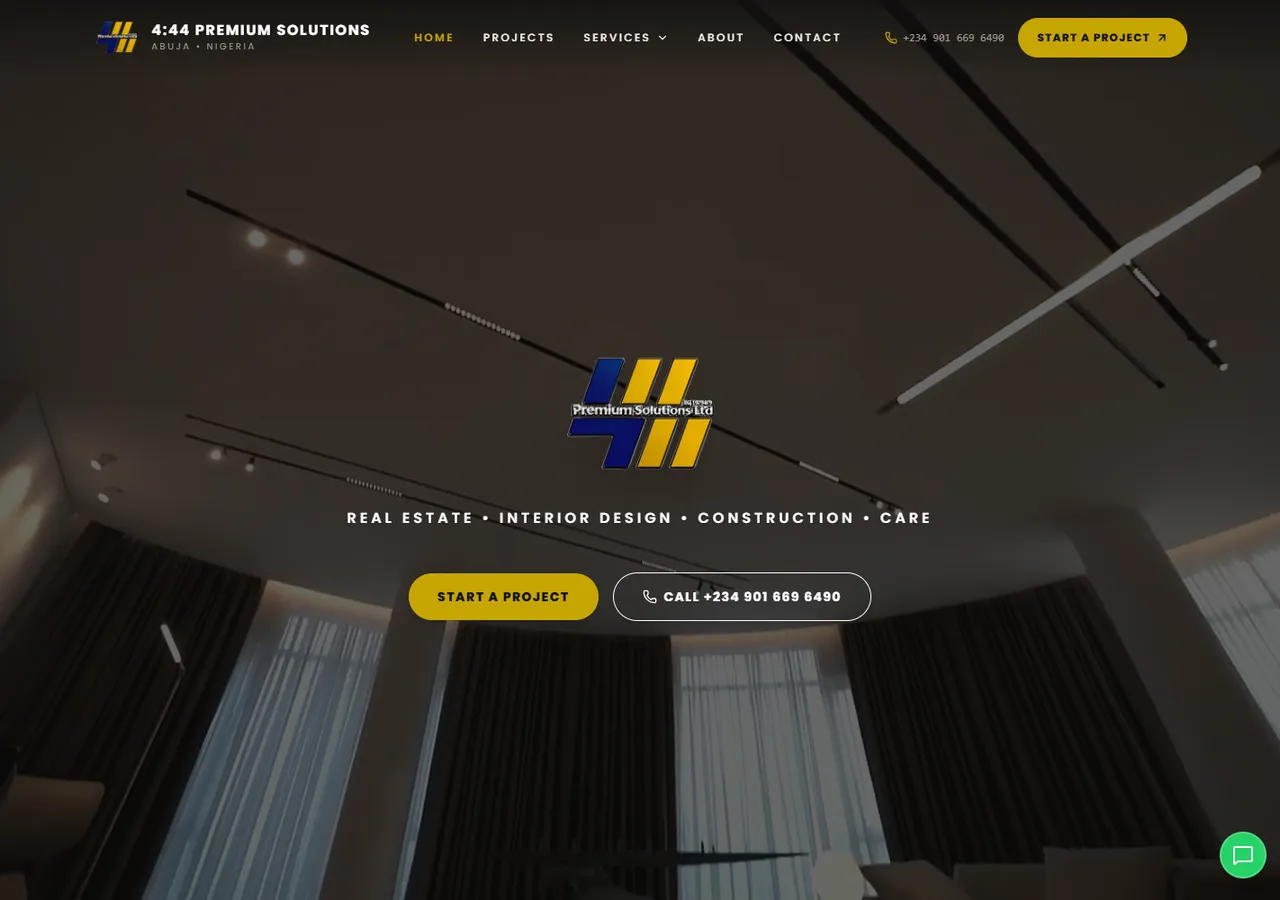
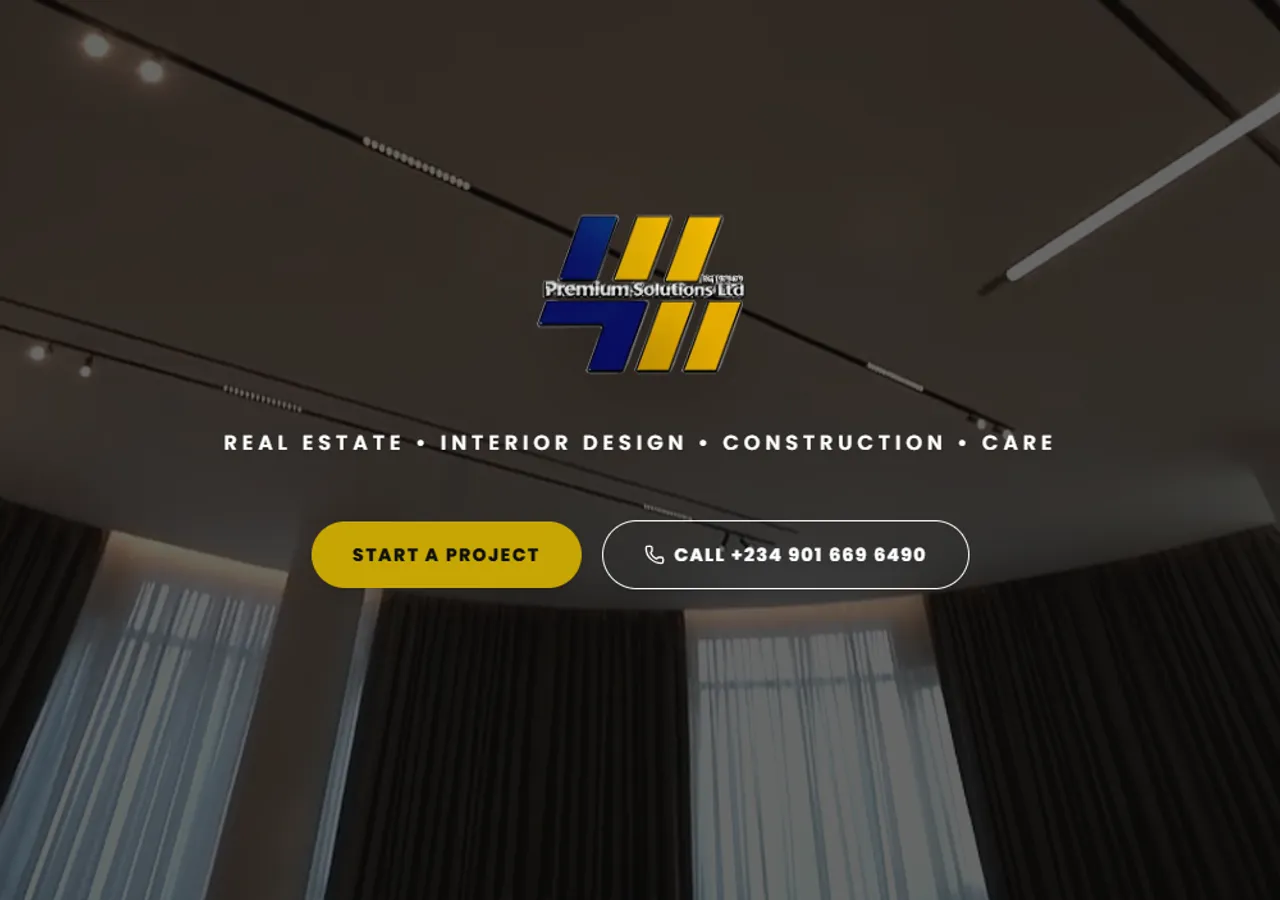
Design audit fixes: contact routes, type scale, wording, targets
- Replace the unconnected contact form with direct LinkedIn/X/CV links
  until site.email is set (the form returns automatically once it is)
- Add X to the contact links shown alongside the form
- One job title ("Creative Developer") across hero, meta and JSON-LD
- Move the role out of the h1 so its accessible name is just the name
- Tighten text sizes to 12/14/16/18 px; buttons and links 13 -> 14 px
- Sentence case for buttons, headings, skills and categories
- Desktop nav links 34 -> 44 px tall
- About copy no longer repeats the hero intro
- 4:44 Premium card crops in on the logo, tagline and buttons

diff --git a/src/styles.css b/src/styles.css
@@ -164,7 +164,7 @@ main:focus { outline: none; }
   min-height: 44px; padding: 12px 16px;
   border: 1px solid var(--btn-bg); border-radius: var(--r-md);
   background: var(--btn-bg); color: var(--btn-ink);
-  font: 700 13px/1 var(--font-display);
+  font: 700 14px/1 var(--font-display);
   white-space: nowrap;
   transition: transform .25s var(--ease), box-shadow .25s var(--ease), opacity .2s;
 }
@@ -175,7 +175,7 @@ main:focus { outline: none; }
 .textLink {
   display: inline-flex; align-items: center; gap: 7px;
   min-height: 44px;
-  font: 600 13px/1 var(--font-display);
+  font: 600 14px/1 var(--font-display);
   color: var(--ink-strong);
   transition: color .2s;
 }
@@ -202,7 +202,7 @@ main:focus { outline: none; }
 .brand { margin-right: auto; display: inline-flex; align-items: center; min-height: 44px; font: 800 19px/1 var(--font-display); letter-spacing: -.06em; }
 .brand span { color: var(--accent); }
 .nav nav { display: flex; gap: 4px; }
-.nav nav a { padding: 10px 12px; border-radius: var(--r-sm); font: 500 14px/1 var(--font-display); transition: background .2s, box-shadow .2s; }
+.nav nav a { display: inline-flex; align-items: center; min-height: 44px; padding: 0 12px; border-radius: var(--r-sm); font: 500 14px/1 var(--font-display); transition: background .2s, box-shadow .2s; }
 .nav nav a[aria-current] { box-shadow: inset 0 -2px 0 var(--accent); border-radius: var(--r-sm) var(--r-sm) 0 0; }
 .navActions { display: flex; align-items: center; gap: 12px; }
 .navActions .textLink { padding: 0 4px; }
@@ -241,7 +241,7 @@ main:focus { outline: none; }
   display: flex; align-items: center; justify-content: space-between;
   min-height: 52px; margin-top: 4px; padding: 0;
   border: 0; border-top: 1px solid var(--line); background: transparent;
-  font: 600 15px var(--font-display); text-align: left; color: var(--ink-strong);
+  font: 600 16px var(--font-display); text-align: left; color: var(--ink-strong);
 }
 .mobileRow:first-of-type { margin-top: 20px; }
 html.menuOpen, html.menuOpen body { overflow: hidden; }
@@ -274,14 +274,14 @@ html.menuOpen, html.menuOpen body { overflow: hidden; }
 .hero h1 {
   font-size: var(--h1); font-weight: 700;
   line-height: 1.02; letter-spacing: var(--track-display);
-  margin-bottom: 20px;
 }
-.hero h1 span {
-  display: block; margin-top: 12px;
-  font: 400 13px/1.4 var(--font-mono); letter-spacing: .1em; text-transform: uppercase;
+/* The role sits outside the h1 so the heading's accessible name is just the person's name. */
+.heroRole {
+  margin: 12px 0 20px;
+  font: 400 14px/1.4 var(--font-mono); letter-spacing: .1em; text-transform: uppercase;
   color: var(--accent);
 }
-.heroCopy p { max-width: 470px; font-size: clamp(1rem, 1.35vw, 1.15rem); line-height: 1.7; color: var(--muted); }
+.heroIntro { max-width: 470px; font-size: clamp(1rem, 1.35vw, 1.125rem); line-height: 1.7; color: var(--muted); }
 .actions { display: flex; flex-wrap: wrap; align-items: center; gap: 12px 20px; margin-top: 28px; }
 .scrollHint {
   position: absolute; left: max(var(--gutter), (100% - var(--max)) / 2); bottom: 28px;
@@ -343,7 +343,7 @@ html.menuOpen, html.menuOpen body { overflow: hidden; }
 .about { background: var(--bg-alt); }
 .about .inner { max-width: var(--max); margin: 0 auto; }
 .split { display: grid; grid-template-columns: 1fr 1fr; gap: clamp(32px, 6vw, 70px); }
-.copy p { font-size: 17px; line-height: 1.72; color: var(--muted); }
+.copy p { font-size: 18px; line-height: 1.72; color: var(--muted); }
 .copy p + p { margin-top: 18px; }
 .pills { display: flex; flex-wrap: wrap; gap: 8px; margin-top: 32px; }
 .pills li { padding: 9px 13px; border: 1px solid var(--line-strong); border-radius: var(--r-pill); font-size: 12px; line-height: 1.3; color: var(--ink-strong); }
@@ -382,7 +382,7 @@ html.menuOpen, html.menuOpen body { overflow: hidden; }
 .contactForm input:focus, .contactForm textarea:focus { outline: none; border-color: var(--accent); box-shadow: 0 0 0 3px color-mix(in srgb, var(--accent) 22%, transparent); }
 .contactForm [aria-invalid="true"] { border-color: var(--error); background: var(--error-soft); }
 .contactForm [aria-invalid="true"]:focus { border-color: var(--error); box-shadow: 0 0 0 3px color-mix(in srgb, var(--error) 22%, transparent); }
-.fieldError { display: flex; align-items: flex-start; gap: 7px; font-size: 13px; line-height: 1.45; color: var(--error); }
+.fieldError { display: flex; align-items: flex-start; gap: 7px; font-size: 14px; line-height: 1.45; color: var(--error); }
 .fieldError::before {
   content: '!'; flex: none; display: grid; place-items: center;
   width: 16px; height: 16px; margin-top: 1px; border-radius: 50%;
@@ -390,9 +390,26 @@ html.menuOpen, html.menuOpen body { overflow: hidden; }
 }
 .contactForm .btn { justify-self: start; margin-top: 12px; }
 .honey { position: absolute; left: -9999px; width: 1px; height: 1px; opacity: 0; }
-.formNotice { min-height: 1.5em; font-size: 13px; line-height: 1.5; color: var(--subtle); }
+.formNotice { min-height: 1.5em; font-size: 14px; line-height: 1.5; color: var(--subtle); }
 .formNotice.ok { color: var(--success); }
 .formNotice.error { color: var(--error); }
+
+/* Shown in place of the form until a delivery address is set (see data.ts). */
+.contactDirect { display: grid; align-content: start; }
+.contactDirect .label { margin-bottom: 4px; }
+.directLink {
+  display: flex; align-items: center; justify-content: space-between; gap: 16px;
+  min-height: 64px; padding: 12px 0;
+  border-bottom: 1px solid var(--line-strong);
+  font: 700 18px/1.25 var(--font-display); letter-spacing: -.02em;
+  color: var(--ink);
+  transition: color .2s;
+}
+.directLink svg { flex: none; width: 20px; height: 20px; transition: transform .25s var(--ease); }
+@media (hover: hover) {
+  .directLink:hover { color: var(--accent); }
+  .directLink:hover svg { transform: translate(3px, -3px); }
+}
 
 /* Case study */
 .caseStudy {
@@ -401,7 +418,7 @@ html.menuOpen, html.menuOpen body { overflow: hidden; }
 }
 .backLink { margin-bottom: 28px; color: var(--muted); }
 .caseStudy h1 { font-size: var(--h1); font-weight: 700; line-height: 1.02; letter-spacing: var(--track-display); }
-.caseCat { margin-top: 12px; font: 400 13px var(--font-mono); letter-spacing: .06em; text-transform: uppercase; color: var(--accent); }
+.caseCat { margin-top: 12px; font: 400 12px var(--font-mono); letter-spacing: .06em; text-transform: uppercase; color: var(--accent); }
 .caseLede { max-width: 620px; margin-top: 20px; font-size: clamp(1.05rem, 1.6vw, 1.25rem); line-height: 1.65; color: var(--muted); }
 .caseShot { margin-top: 44px; padding: clamp(8px, 1.4vw, 14px); border: 1px solid var(--line); border-radius: var(--r-lg); background: var(--card-media); box-shadow: var(--shadow); }
 .caseShot img { width: 100%; height: auto; aspect-ratio: 1280 / 889; border-radius: var(--r-sm); }
@@ -425,8 +442,8 @@ html.menuOpen, html.menuOpen body { overflow: hidden; }
   display: grid; grid-template-columns: 1fr auto; gap: 24px;
 }
 .footerName { font: 700 19px var(--font-display); letter-spacing: -.05em; }
-.footerTagline { margin-top: 6px; font-size: 13px; font-weight: 500; color: var(--subtle); }
-.footer nav { display: flex; flex-wrap: wrap; align-items: center; gap: 0 10px; font-size: 13px; }
+.footerTagline { margin-top: 6px; font-size: 14px; font-weight: 500; color: var(--subtle); }
+.footer nav { display: flex; flex-wrap: wrap; align-items: center; gap: 0 10px; font-size: 14px; }
 .footer nav a { min-height: 44px; min-width: 44px; padding: 0 6px; display: inline-flex; align-items: center; justify-content: center; }
 @media (hover: hover) { .footer nav a:hover { color: var(--accent); } }
 .footer small {

diff --git a/src/App.tsx b/src/App.tsx
@@ -132,10 +132,11 @@ function Hero() {
       </div>
     </div>
     <div className="heroCopy">
-      <h1 id="hero-title">Usiju Peter<span>Creative Developer</span></h1>
-      <p>{site.intro}</p>
+      <h1 id="hero-title">Usiju Peter</h1>
+      <p className="heroRole">{site.role}</p>
+      <p className="heroIntro">{site.intro}</p>
       <div className="actions">
-        <Btn href="#contact">Start a Conversation</Btn>
+        <Btn href="#contact">Start a conversation</Btn>
         <a className="textLink underline" href={site.cv} target="_blank" rel="noopener"><FileText size={16} aria-hidden="true" /> View CV</a>
       </div>
     </div>
@@ -161,7 +162,7 @@ function ProjectCard({ p, delay }: { p: Project; delay: number }) {
 
 function Work() {
   return <section id="work" className="section work" aria-labelledby="work-title">
-    <Reveal><Label>01 / Selected work</Label><h2 id="work-title">Selected Projects</h2></Reveal>
+    <Reveal><Label>01 / Selected work</Label><h2 id="work-title">Selected projects</h2></Reveal>
     <ul className="workTiles" role="list">{projects.map((p, i) => <li key={p.slug}><ProjectCard p={p} delay={i * 0.08} /></li>)}</ul>
   </section>;
 }
@@ -207,7 +208,6 @@ function Contact() {
     setErrors(e);
     const first = (Object.keys(e) as Field[])[0];
     if (first) { (form.elements.namedItem(first) as HTMLElement | null)?.focus(); setStatus({ kind: 'idle', text: '' }); return; }
-    if (!site.email) { setStatus({ kind: 'error', text: 'The contact form isn’t connected yet. Please reach out on LinkedIn or X for now.' }); return; }
     setStatus({ kind: 'sending', text: 'Sending…' });
     try {
       const res = await fetch(`https://formsubmit.co/ajax/${site.email}`, {
@@ -237,12 +237,20 @@ function Contact() {
       <Label>03 / Contact</Label>
       <h2 id="contact-title">Start a conversation.</h2>
       <p>Have a project, idea, or opportunity in mind? Send a note and let’s make it happen.</p>
-      <div className="contactLinks">
-        {site.email && <a className="textLink" href={`mailto:${site.email}`}>{site.email}</a>}
+      {site.email && <div className="contactLinks">
+        <a className="textLink" href={`mailto:${site.email}`}>{site.email}</a>
         <a className="textLink" href={site.socials.linkedin} target="_blank" rel="noopener me">LinkedIn</a>
+        <a className="textLink" href={site.socials.x} target="_blank" rel="noopener me">X (Twitter)</a>
         <a className="textLink" href={site.cv} target="_blank" rel="noopener"><FileText size={16} aria-hidden="true" /> View CV</a>
-      </div>
+      </div>}
     </div>
+    {/* Until a delivery address is set in data.ts, show direct routes instead of a form that can't send. */}
+    {!site.email ? <div className="contactDirect">
+      <p className="label">The quickest ways to reach me</p>
+      <a className="directLink" href={site.socials.linkedin} target="_blank" rel="noopener me"><span>Message me on LinkedIn</span><ArrowUpRight aria-hidden="true" /></a>
+      <a className="directLink" href={site.socials.x} target="_blank" rel="noopener me"><span>Message me on X (Twitter)</span><ArrowUpRight aria-hidden="true" /></a>
+      <a className="directLink" href={site.cv} target="_blank" rel="noopener"><span>View my CV</span><FileText aria-hidden="true" /></a>
+    </div> :
     <form className="contactForm" onSubmit={submit} noValidate>
       <label htmlFor="f-name">Name</label>
       <div className="field"><input {...fieldProps('name')} autoComplete="name" maxLength={100} placeholder="Your name" />{err('name')}</div>
@@ -253,7 +261,7 @@ function Contact() {
       <input type="text" name="_honey" className="honey" tabIndex={-1} autoComplete="off" aria-hidden="true" />
       <button type="submit" className="btn" disabled={status.kind === 'sending'}>{status.kind === 'sending' ? 'Sending…' : 'Send message'} <ArrowUpRight size={16} aria-hidden="true" /></button>
       <p className={`formNotice ${status.kind}`} role="status" aria-live="polite">{status.text}</p>
-    </form>
+    </form>}
   </div></Reveal></section>;
 }
 

diff --git a/src/data.ts b/src/data.ts
@@ -2,7 +2,7 @@ export const SITE_URL = 'https://usijupeter.vercel.app';
 
 export const site = {
   name: 'Usiju Peter',
-  role: 'Creative Developer & Digital Experience Designer',
+  role: 'Creative Developer',
   /** Contact-form messages are delivered here (via FormSubmit). Leave empty to hide the form's send action. */
   email: '',
   cv: '/cv/usiju-peter-cv.pdf',
@@ -13,11 +13,11 @@ export const site = {
   headline: 'Creative developer crafting clear, considered websites.',
   intro: 'I’m Usiju, a creative developer crafting clear, considered websites and digital experiences that move with purpose.',
   about: [
-    'I’m Usiju, a creative developer who enjoys the intersection of thoughtful design and functional technology.',
+    'What I enjoy most is the point where thoughtful design meets technology that works properly.',
     'I believe the smallest details often make the biggest difference — from how a page moves to how naturally someone finds what they’re looking for.',
     'I’m always exploring new ways to make the web more intuitive, expressive, and enjoyable.',
   ],
-  skills: ['Frontend Development', 'Creative Web Design', 'Responsive Interfaces', 'Motion & Interaction', 'User Experience', 'Website Optimization'],
+  skills: ['Frontend development', 'Creative web design', 'Responsive interfaces', 'Motion & interaction', 'User experience', 'Website optimization'],
 };
 
 export type Project = {
@@ -31,7 +31,7 @@ export type Project = {
 };
 
 export const projects: Project[] = [
-  { slug: '444-premium', title: '4:44 Premium Solutions', category: 'Interior Design / Web Experience', description: 'A refined digital experience for an interior design and premium property solutions brand.', image: '444-premium', live: 'https://interiordesignpreview.vercel.app/', highlights: ['Editorial-led browsing', 'Atmospheric premium presentation', 'A clear invitation to explore'] },
-  { slug: 'mykaab', title: 'MyKaab', category: 'Mobility / Platform Website', description: 'A mobility platform website presenting a driver-first approach to transportation in Nigeria.', image: 'mykaab', live: 'https://mykaab.com.ng/', highlights: ['Product-forward structure', 'Clear service hierarchy', 'Built around movement and access'] },
-  { slug: 'ubbcakes', title: 'UbbCakes', category: 'E-commerce / Bakery Website', description: 'A warm, visually engaging bakery experience showcasing handcrafted cakes.', image: 'ubbcakes', live: 'https://ubbcakes.vercel.app/', highlights: ['Sensory product storytelling', 'Inviting product presentation', 'Clear ordering pathways'] },
+  { slug: '444-premium', title: '4:44 Premium Solutions', category: 'Interior design / Web experience', description: 'A refined digital experience for an interior design and premium property solutions brand.', image: '444-premium', live: 'https://interiordesignpreview.vercel.app/', highlights: ['Editorial-led browsing', 'Atmospheric premium presentation', 'A clear invitation to explore'] },
+  { slug: 'mykaab', title: 'MyKaab', category: 'Mobility / Platform website', description: 'A mobility platform website presenting a driver-first approach to transportation in Nigeria.', image: 'mykaab', live: 'https://mykaab.com.ng/', highlights: ['Product-forward structure', 'Clear service hierarchy', 'Built around movement and access'] },
+  { slug: 'ubbcakes', title: 'UbbCakes', category: 'E-commerce / Bakery website', description: 'A warm, visually engaging bakery experience showcasing handcrafted cakes.', image: 'ubbcakes', live: 'https://ubbcakes.vercel.app/', highlights: ['Sensory product storytelling', 'Inviting product presentation', 'Clear ordering pathways'] },
 ];

diff --git a/index.html b/index.html
@@ -3,8 +3,8 @@
   <head>
     <meta charset="UTF-8" />
     <meta name="viewport" content="width=device-width, initial-scale=1, viewport-fit=cover" />
-    <title>Usiju Peter — Creative Developer &amp; Web Designer</title>
-    <meta name="description" content="Usiju Peter is a creative developer and digital experience designer building clear, considered, responsive websites for brands and businesses." />
+    <title>Usiju Peter — Creative Developer</title>
+    <meta name="description" content="Usiju Peter is a creative developer building clear, considered, responsive websites for brands and businesses." />
     <meta name="author" content="Usiju Peter" />
     <meta name="robots" content="index, follow, max-image-preview:large" />
     <link rel="canonical" href="https://usijupeter.vercel.app/" />
@@ -50,7 +50,7 @@
           "@type": "Person",
           "@id": "https://usijupeter.vercel.app/#person",
           "name": "Usiju Peter",
-          "jobTitle": "Creative Developer & Digital Experience Designer",
+          "jobTitle": "Creative Developer",
           "url": "https://usijupeter.vercel.app/",
           "image": "https://usijupeter.vercel.app/images/usiju-peter-900.webp",
           "sameAs": ["https://www.linkedin.com/in/usiju-peter-115052235/", "https://x.com/Usiju_2004"],
